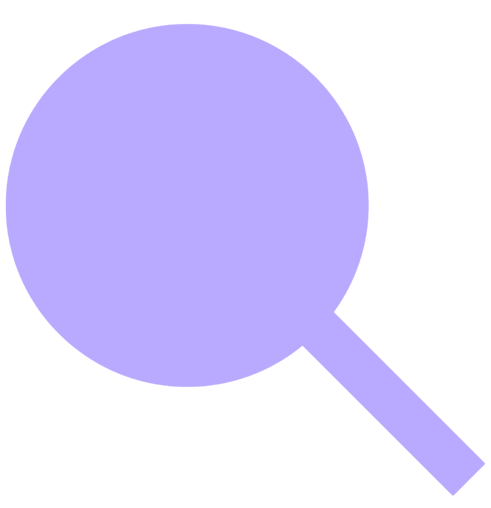
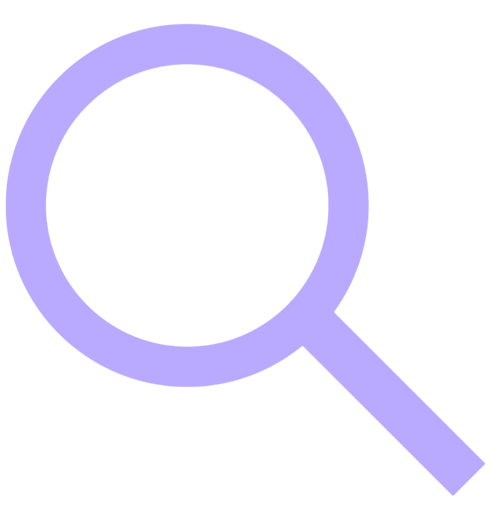
soke side ferdig

Changed region(s): [[0.0916, 0.1181, 0.6721, 0.7087]]

diff --git a/sok.html b/sok.html
@@ -56,10 +56,7 @@
                             <div class="buttonText">Hjem</div>
                         </a>
 
-                        <a href="sok.html?query=" class="largeWidth hiddenButton genericButton" id="menysok">
-                            <img src="bilder/search_hul.png" height="30" alt="">
-                            <div class="buttonText">Søk</div>
-                        </a>
+                        
 
                         <a href="viewprofile.html?brukernavn=brukernavn" class="hiddenButton genericButton"
                             id="menyprofil">
@@ -117,12 +114,12 @@
                                 <input type="text" placeholder="Search on the Bark web..." id="sokfelt"></input>
                                 <div>
                                     <button id="fjernQueryKnapp" class="hiddenButton">
-                                        <img src="bilder/clear_hul.png" width="20" height="20" alt="fjernQueryKnapp">
+                                        <img src="bilder/clear.png" width="20" height="20" alt="fjernQueryKnapp">
                                     </button>
                                     <button id="sokknapp" class="hiddenButton">
                                         <!-- når denne trykkes skal vi navigere til en ny side som ligner
                                          -->
-                                        <img src="bilder/search_hul.png" width="25" height="25" alt="sokeknapp">
+                                        <img src="bilder/search.png" width="25" height="25" alt="sokeknapp">
                                     </button>
                                 </div>
                             </div>
@@ -197,7 +194,7 @@
 
     let profil = document.querySelector(".profil > button");
     let popupElement = document.querySelector("#popupLogout");
-    document.querySelector("#overskriftfollowing").addEventListener("focus", gjemPopup)
+    document.querySelector(".backButton").addEventListener("focus", gjemPopup)
     popupElement.addEventListener("blur", gjemPopup);
     profil.addEventListener("focus", visPopup);
     profil.addEventListener("blur", gjemPopup);

diff --git a/javascript/whotofollow_buttons.js b/javascript/whotofollow_buttons.js
@@ -1,6 +1,12 @@
 
-
-let whoToFollowUsers = listeBrukereSomIkkeErFolgt(hentInnloggetBrukerId(), 4);
+let htmlfilnavn = window.location.pathname.split("/").pop();
+let whoToFollowUsers = []
+if (htmlfilnavn == "sok.html") {
+    whoToFollowUsers = listeBrukereQuery(hentURLSearchParams()["query"]);
+    
+} else {
+    whoToFollowUsers = listeBrukereSomIkkeErFolgt(hentInnloggetBrukerId(), 4);
+}
 let whotofollowbody = document.querySelector(".whotofollowbody")
 console.log(whoToFollowUsers)
 for (let i = 0; i < whoToFollowUsers.length; i++) {
@@ -34,10 +40,15 @@ for (let i = 0; i < whoToFollowUsers.length; i++) {
     div3.innerHTML = "@" + whoToFollowUsers[i][0];
 
     let button = document.createElement("button");
-    button.innerHTML = "Follow";
+    if (folgerBruker(hentInnloggetBrukerId(), whoToFollowUsers[i][0])) {
+        button.innerHTML = "Unfollow";
+    } else {
+
+        button.innerHTML = "Follow";
+    }
     button.classList.add("follow");
     button.classList.add("vanligKnapp");
-    button.title="trykk for å følge"
+    button.title = "trykk for å følge"
 
 
     div1.appendChild(div2);

diff --git a/home.html b/home.html
@@ -184,12 +184,12 @@
                         <input type="text" placeholder="Search on the Bark web..." id="sokfelt"></input>
                         <div>
                             <button id="fjernQueryKnapp" class="hiddenButton">
-                                <img src="bilder/clear_hul.png" width="20" height="20" alt="fjernQueryKnapp">
+                                <img src="bilder/clear.png" width="20" height="20" alt="fjernQueryKnapp">
                             </button>
                             <button id="sokknapp" class="hiddenButton">
                                 <!-- når denne trykkes skal vi navigere til en ny side som ligner
                                  -->
-                                <img src="bilder/search_hul.png" width="25" height="25" alt="sokeknapp">
+                                <img src="bilder/search.png" width="25" height="25" alt="sokeknapp">
                             </button>
                         </div>
                     </div>

diff --git a/viewprofile.html b/viewprofile.html
@@ -213,12 +213,12 @@
                         <input type="text" placeholder="Search on the Bark web..." id="sokfelt"></input>
                         <div>
                             <button id="fjernQueryKnapp" class="hiddenButton">
-                                <img src="bilder/clear_hul.png" width="20" height="20" alt="fjernQueryKnapp">
+                                <img src="bilder/clear.png" width="20" height="20" alt="fjernQueryKnapp">
                             </button>
                             <button id="sokknapp" class="hiddenButton">
                                 <!-- når denne trykkes skal vi navigere til en ny side som ligner
                                  -->
-                                <img src="bilder/search_hul.png" width="25" height="25" alt="sokeknapp">
+                                <img src="bilder/search.png" width="25" height="25" alt="sokeknapp">
                             </button>
                         </div>
                     </div>

diff --git a/viewtweet.html b/viewtweet.html
@@ -328,12 +328,12 @@
                         <input type="text" placeholder="Search on the Bark web..." id="sokfelt"></input>
                         <div>
                             <button id="fjernQueryKnapp" class="hiddenButton">
-                                <img src="bilder/clear_hul.png" width="20" height="20" alt="fjernQueryKnapp">
+                                <img src="bilder/clear.png" width="20" height="20" alt="fjernQueryKnapp">
                             </button>
                             <button id="sokknapp" class="hiddenButton">
                                 <!-- når denne trykkes skal vi navigere til en ny side som ligner
                                  -->
-                                <img src="bilder/search_hul.png" width="25" height="25" alt="sokeknapp">
+                                <img src="bilder/search.png" width="25" height="25" alt="sokeknapp">
                             </button>
                         </div>
                     </div>

diff --git a/javascript/lib.js b/javascript/lib.js
@@ -177,6 +177,28 @@ function lagTilfeldigeBrukere(antall) {
     }
 }
 
+function listeBrukereQuery(query) {
+    let users = hentFraLocalStorage("users")
+    let usernames = Object.keys(users);
+    let output = [];
+    
+    for (let i = 0; i < usernames.length; i++) {
+        // match regex
+        if (usernames[i].match(query) || users[usernames[i]]["displayName"].match(query) || users[usernames[i]]["bio"].match(query) || users[usernames[i]]["location"].match(query)) {
+            output.push([
+                usernames[i],
+                users[usernames[i]]["displayName"],
+                users[usernames[i]]["profileImage"]
+            ]);
+        }
+        // if (output.length >= 15) {
+        //     break;
+        // }
+        
+    }
+    console.log(output)
+    return output;
+}
 
 function listeBrukereSomIkkeErFolgt(brukernavn, antall = 4) { // returnerer en array med brukernavn som ikke er følgt av brukernavn
     let bruker = hentBruker(brukernavn);

diff --git a/javascript/sokbar.js b/javascript/sokbar.js
@@ -1,7 +1,18 @@
 let sokknapp = document.querySelector("#sokknapp");
 let sokfelt = document.querySelector("#sokfelt");
 
+sokfelt.addEventListener("keyup", function (e) {
+    if (e.key === 'Enter') {
+        sokknapp.click();
+    }
+});
+
 sokknapp.addEventListener("click", function () {
     let sok = sokfelt.value;
-    window.location.href = "sok.html?query=" + sok;
+    window.location.href = "sok.html?query=" + encodeURIComponent(sok);
 });
+
+let htmlfilnavn1 = window.location.pathname.split("/").pop();
+if (htmlfilnavn1 == "sok.html") {
+    sokfelt.value = hentURLSearchParams()["query"];
+}

diff --git a/hoved.css b/hoved.css
@@ -1322,6 +1322,8 @@ input[type='range']::-webkit-slider-thumb {
 
 .sokTopp>#sok {
     width: min-content;
-    margin-left: 0px;
+    margin-left: auto;
+    margin-right: auto;
+    margin-bottom: 10px;
 
 }
